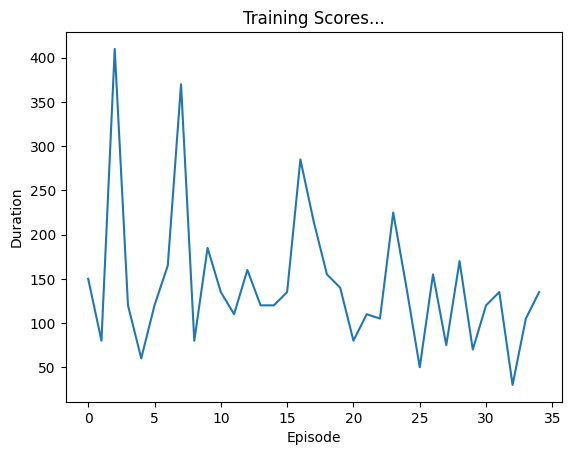
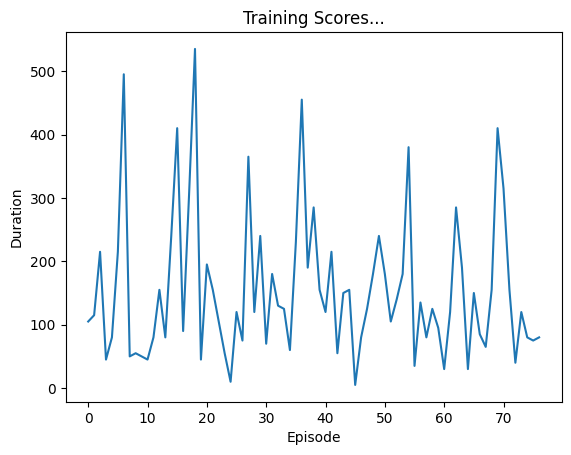
Many changes.

diff --git a/Task 3/space_invaders.py b/Task 3/space_invaders.py
@@ -7,100 +7,123 @@ from itertools import product
 from torch.nn import MaxPool2d
 import pprint
 import logging
+import argparse
+import sys
+
+def parse_args():
+	parser = argparse.ArgumentParser(description = "Skating rink")
+	parser.add_argument('--lrs', type = float, nargs = '+', default = [.001])
+	parser.add_argument('--gammas', type = str, nargs = '+', default = [.99])
+	parser.add_argument('--model-names', type = str, nargs = '+', default = ['cnn'])
+	parser.add_argument('--outfile', type = str)
+	return parser.parse_args()
 
 Models = dict(
-    small = dict(
-        fcnet_hiddens = [64, 64],
-        fcnet_activation = 'relu',
-    ),
-    large = dict(
-        fcnet_hiddens = [250, 256, 128],
-        fcnet_activation = 'relu',
-    ),
-    cnn = dict(
-        conv_filters = [
-            [32, [8, 8], 4],
-            [64, [4, 4], 4],
-            [64, [2, 2], 6],
-        ],
-        fcnet_hiddens = [512],
-        fcnet_activation = 'relu', 
-    )
+	small = dict(
+		fcnet_hiddens = [64, 64],
+		fcnet_activation = 'relu',
+	),
+	large = dict(
+		fcnet_hiddens = [512, 512, 128],
+		fcnet_activation = 'relu',
+	),
+	cnn = dict(
+		conv_filters = [
+			[32, [8, 8], 4],
+			[64, [4, 4], 4],
+			[64, [2, 2], 6],
+		],
+		fcnet_hiddens = [512],
+		fcnet_activation = 'relu', 
+	),
+	cnn_smaller = dict(
+		conv_filters = [
+			[16, [8, 8], 4],
+			[32, [4, 4], 4],
+			[32, [2, 2], 6],
+		],
+		fcnet_hiddens = [256],
+		fcnet_activation = 'relu', 
+	)
 )
 
 def get_ppo_model(lr, gamma, model):
-    config = PPOConfig().environment(
-        "ALE/SpaceInvaders-v5"
-    ).resources(
-        num_gpus = 1,
-    ).framework(
-        "torch"
-    ).rollouts(
-        num_rollout_workers = 10,
-        num_envs_per_worker = 5,
-        observation_filter = 'NoFilter',
-        rollout_fragment_length = 100,
-    ).training(
-        gamma = gamma,
-        lambda_ = 0.95,
-        kl_coeff = 0.5,
-        clip_param = 0.1,
-        entropy_coeff = 0.01,
-        train_batch_size = 5000,
-        sgd_minibatch_size = 500,
-        num_sgd_iter = 10,
-        vf_clip_param = 10.0,
-        vf_share_layers = True
-    ).evaluation(
-        evaluation_interval = 1,
-        evaluation_duration = 10,
-        evaluation_duration_unit = 'episodes'
-    )
-    config.batch_mode = 'truncate_episodes'
+	config = PPOConfig().environment(
+		"ALE/SpaceInvaders-v5"
+	).resources(
+		num_gpus = 1,
+	).framework(
+		"torch"
+	).rollouts(
+		num_rollout_workers = 10,
+		num_envs_per_worker = 5,
+		observation_filter = 'NoFilter',
+		rollout_fragment_length = 100,
+	).training(
+		gamma = gamma,
+		lambda_ = 0.95,
+		kl_coeff = 0.5,
+		clip_param = 0.1,
+		entropy_coeff = 0.01,
+		train_batch_size = 5000,
+		sgd_minibatch_size = 500,
+		num_sgd_iter = 10,
+		vf_clip_param = 10.0,
+		vf_share_layers = True
+	).evaluation(
+		evaluation_interval = 1,
+		evaluation_duration = 10,
+		evaluation_duration_unit = 'episodes'
+	)
+	config.batch_mode = 'truncate_episodes'
 
-    return config.build()
+	return config.build()
 
 def train_epoch(ppo):
-    results = ppo.train()
-    results['policy_loss'] = results['info']['learner']['default_policy']['learner_stats']['policy_loss']
-    results['vf_loss'] = results['info']['learner']['default_policy']['learner_stats']['vf_loss']
-    results['entropy'] = results['info']['learner']['default_policy']['learner_stats']['entropy']
-    return results
+	results = ppo.train()
+	results['policy_loss'] = results['info']['learner']['default_policy']['learner_stats']['policy_loss']
+	results['vf_loss'] = results['info']['learner']['default_policy']['learner_stats']['vf_loss']
+	results['entropy'] = results['info']['learner']['default_policy']['learner_stats']['entropy']
+	return results
 
 def main():
-    ray.init()
+	args = parse_args()
 
-    logging.basicConfig(
-        level = logging.INFO,
-        format = '[%(asctime)s] %(message)s',
-        datefmt = '%Y-%m-%d %H:%M:%S',
-    )
+	out = sys.stdout
+	if args.outfile is not None:
+		out = open(args.outfile, 'w')
 
-    lrs = [.001]
-    gammas = [.99]
-    model_names = ['cnn']
+	logging.basicConfig(
+		level = logging.INFO,
+		format = '[%(asctime)s] %(message)s',
+		datefmt = '%Y-%m-%d %H:%M:%S',
+	)
 
-    params = ['lr', 'gamma', 'model_name']
-    training = ['episode']
-    metrics = ['episode_reward_mean', 'episode_len_mean', 'policy_loss', 'vf_loss', 'entropy']
-    print(','.join(params + training + metrics), flush = True)
-    for values in product(lrs, gammas, model_names):
-        lr, gamma, model_name = values
-        model = get_ppo_model(lr, gamma, Models[model_name])
+	logging.info('Starting Ray')
+	ray.init(ignore_reinit_error = True, num_cpus = 4)
+	logging.info('Started Ray')
 
-        for episode in range(1, 2001):
-            if episode % 10 == 1:
-                logging.info(f'Starting episode {episode}')
+	params = ['lr', 'gamma', 'model_name']
+	training = ['episode']
+	metrics = ['episode_reward_mean', 'episode_len_mean', 'policy_loss', 'vf_loss', 'entropy']
+	print(','.join(params + training + metrics), file = out, flush = True)
+	for values in product(args.lrs, args.gammas, args.model_names):
+		lr, gamma, model_name = values
+		model = get_ppo_model(lr, gamma, Models[model_name])
 
-            if episode % 100 == 1:
-                path = model.save(checkpoint_dir = f'./checkpoints/ep{episode}')
-                logging.info(f'Saved checkpoint at {path}')
+		for episode in range(1, 271):
+			if episode % 10 == 1:
+				logging.info(f'Starting episode {episode}')
 
-            pert = [episode]
+			if episode % 100 == 1:
+				path = model.save(checkpoint_dir = f'./checkpoints_{model_name}_lr/ep{episode}')
+				logging.info(f'Saved checkpoint at {path}')
 
-            results = train_epoch(model)
-            my_results = [results[m] for m in metrics]
-            print(','.join(str(x) for x in (list(values) + pert + my_results)), flush = True)
+			pert = [episode]
+
+			results = train_epoch(model)
+			my_results = [results[m] for m in metrics]
+			print(','.join(str(x) for x in (list(values) + pert + my_results)), file = out, flush = True)
 
 if __name__ == '__main__':
-    main()
+	main()
